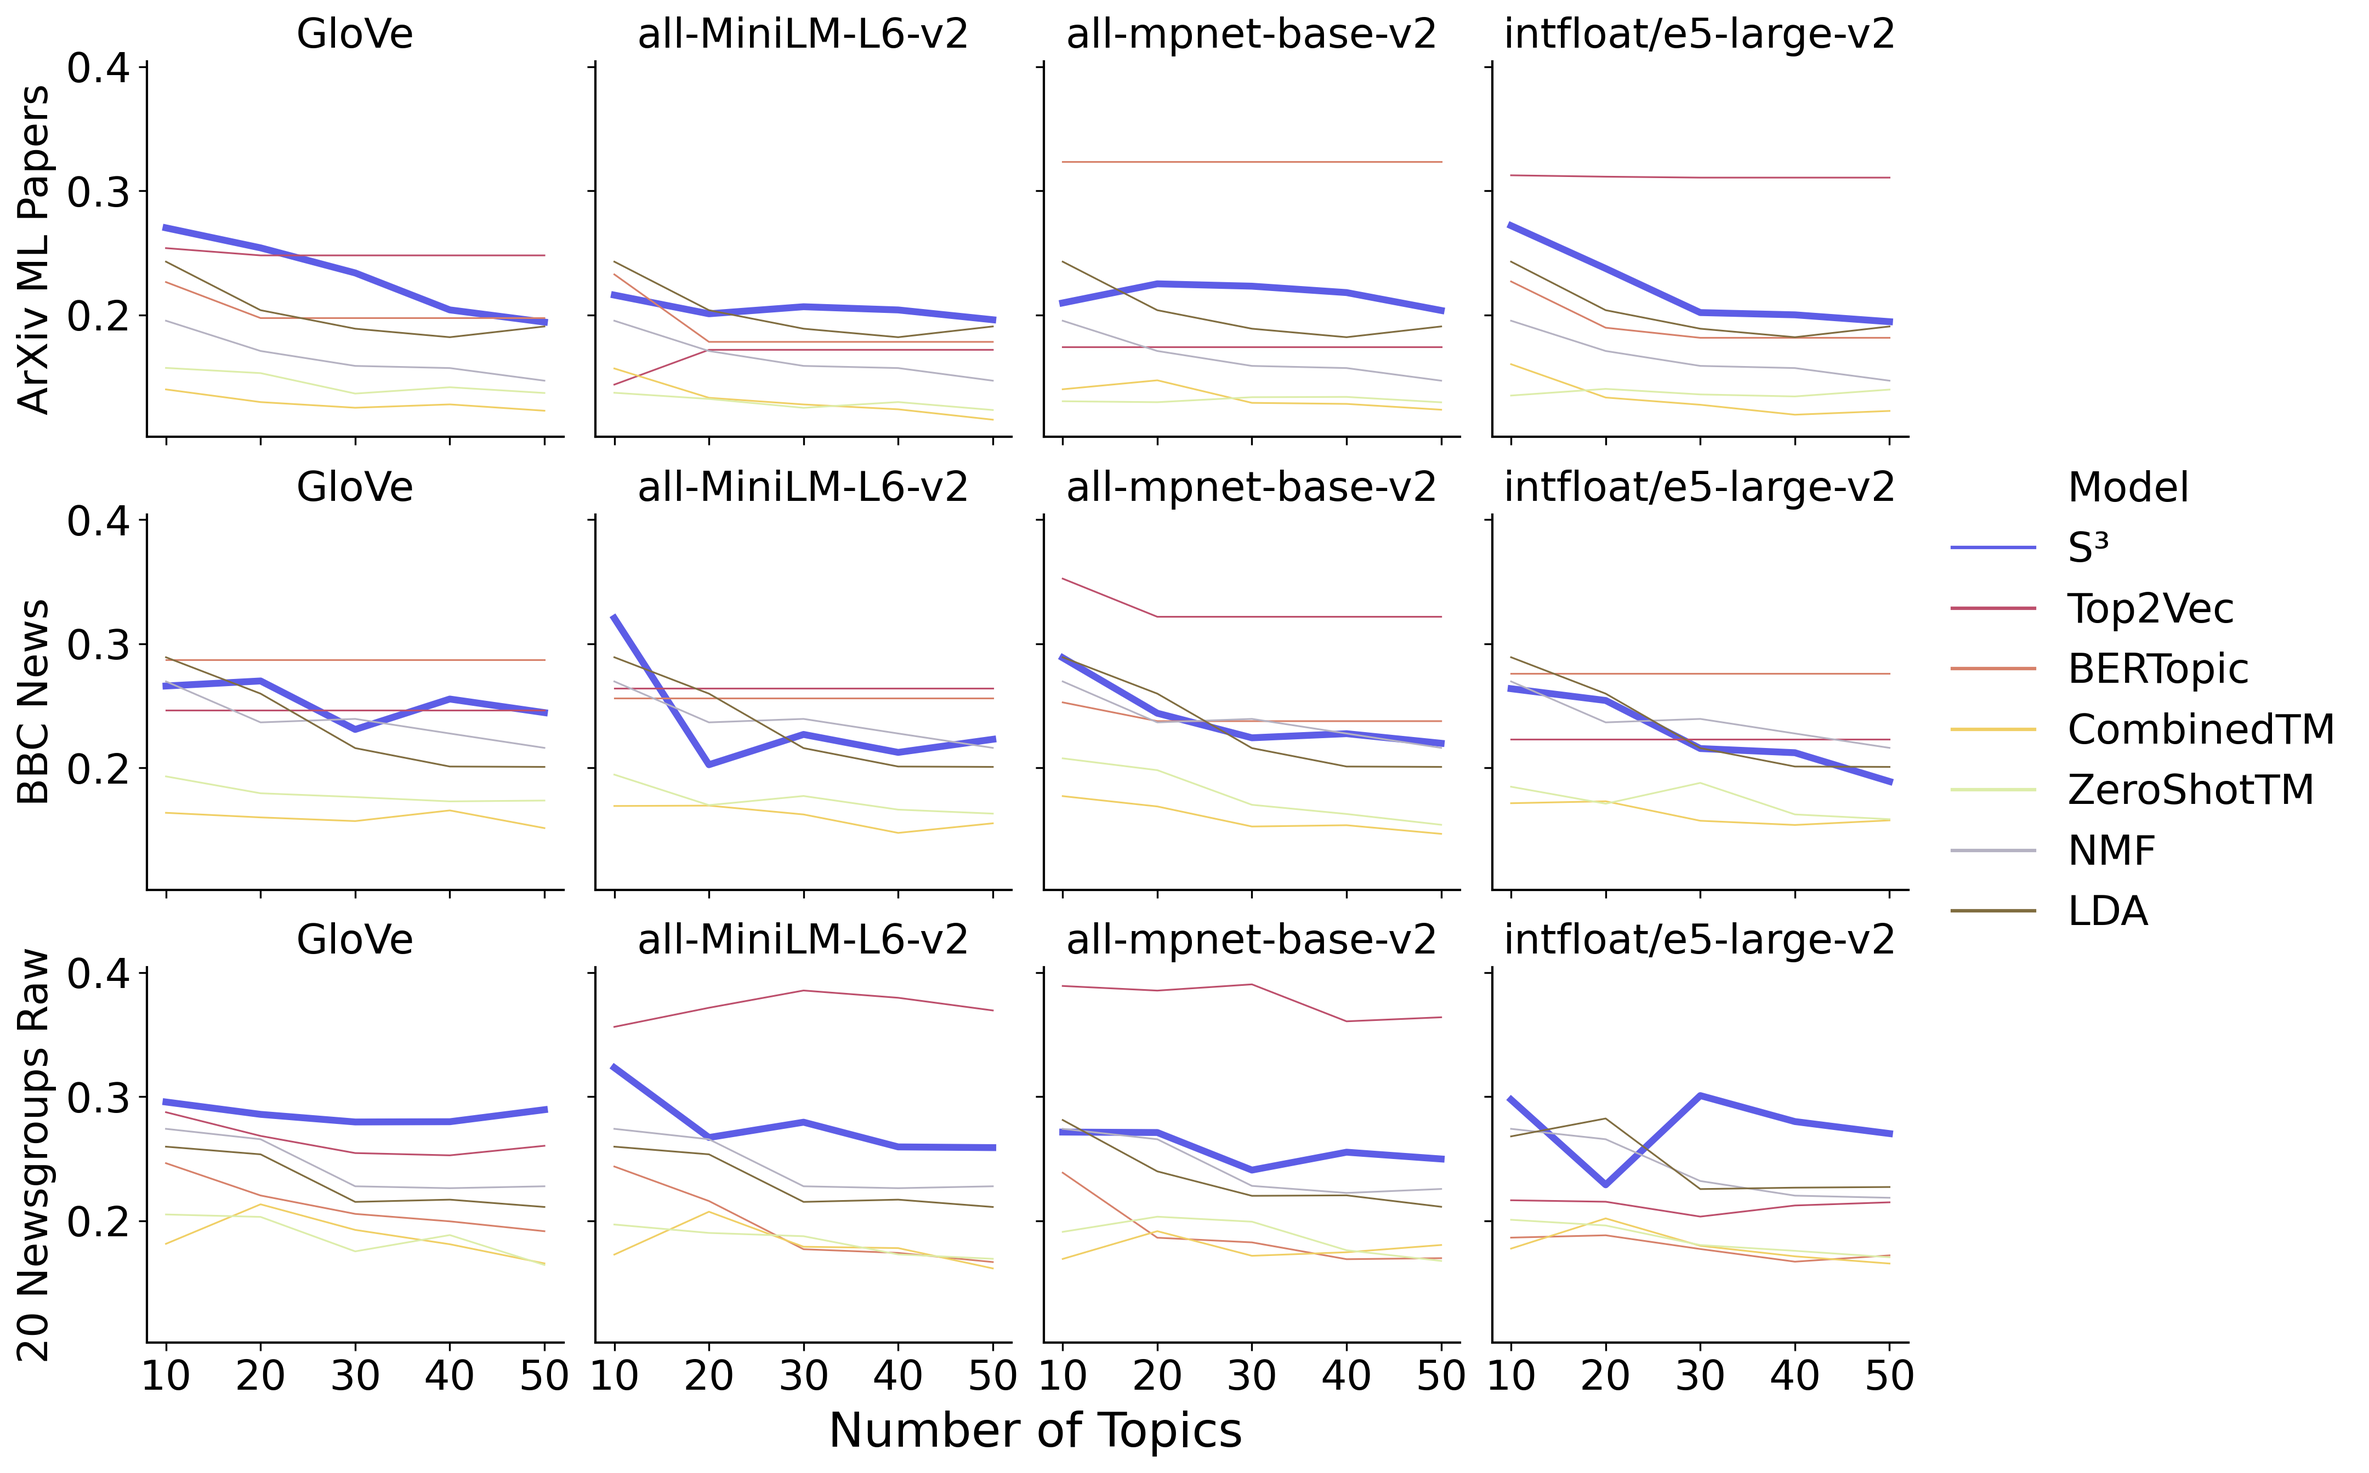
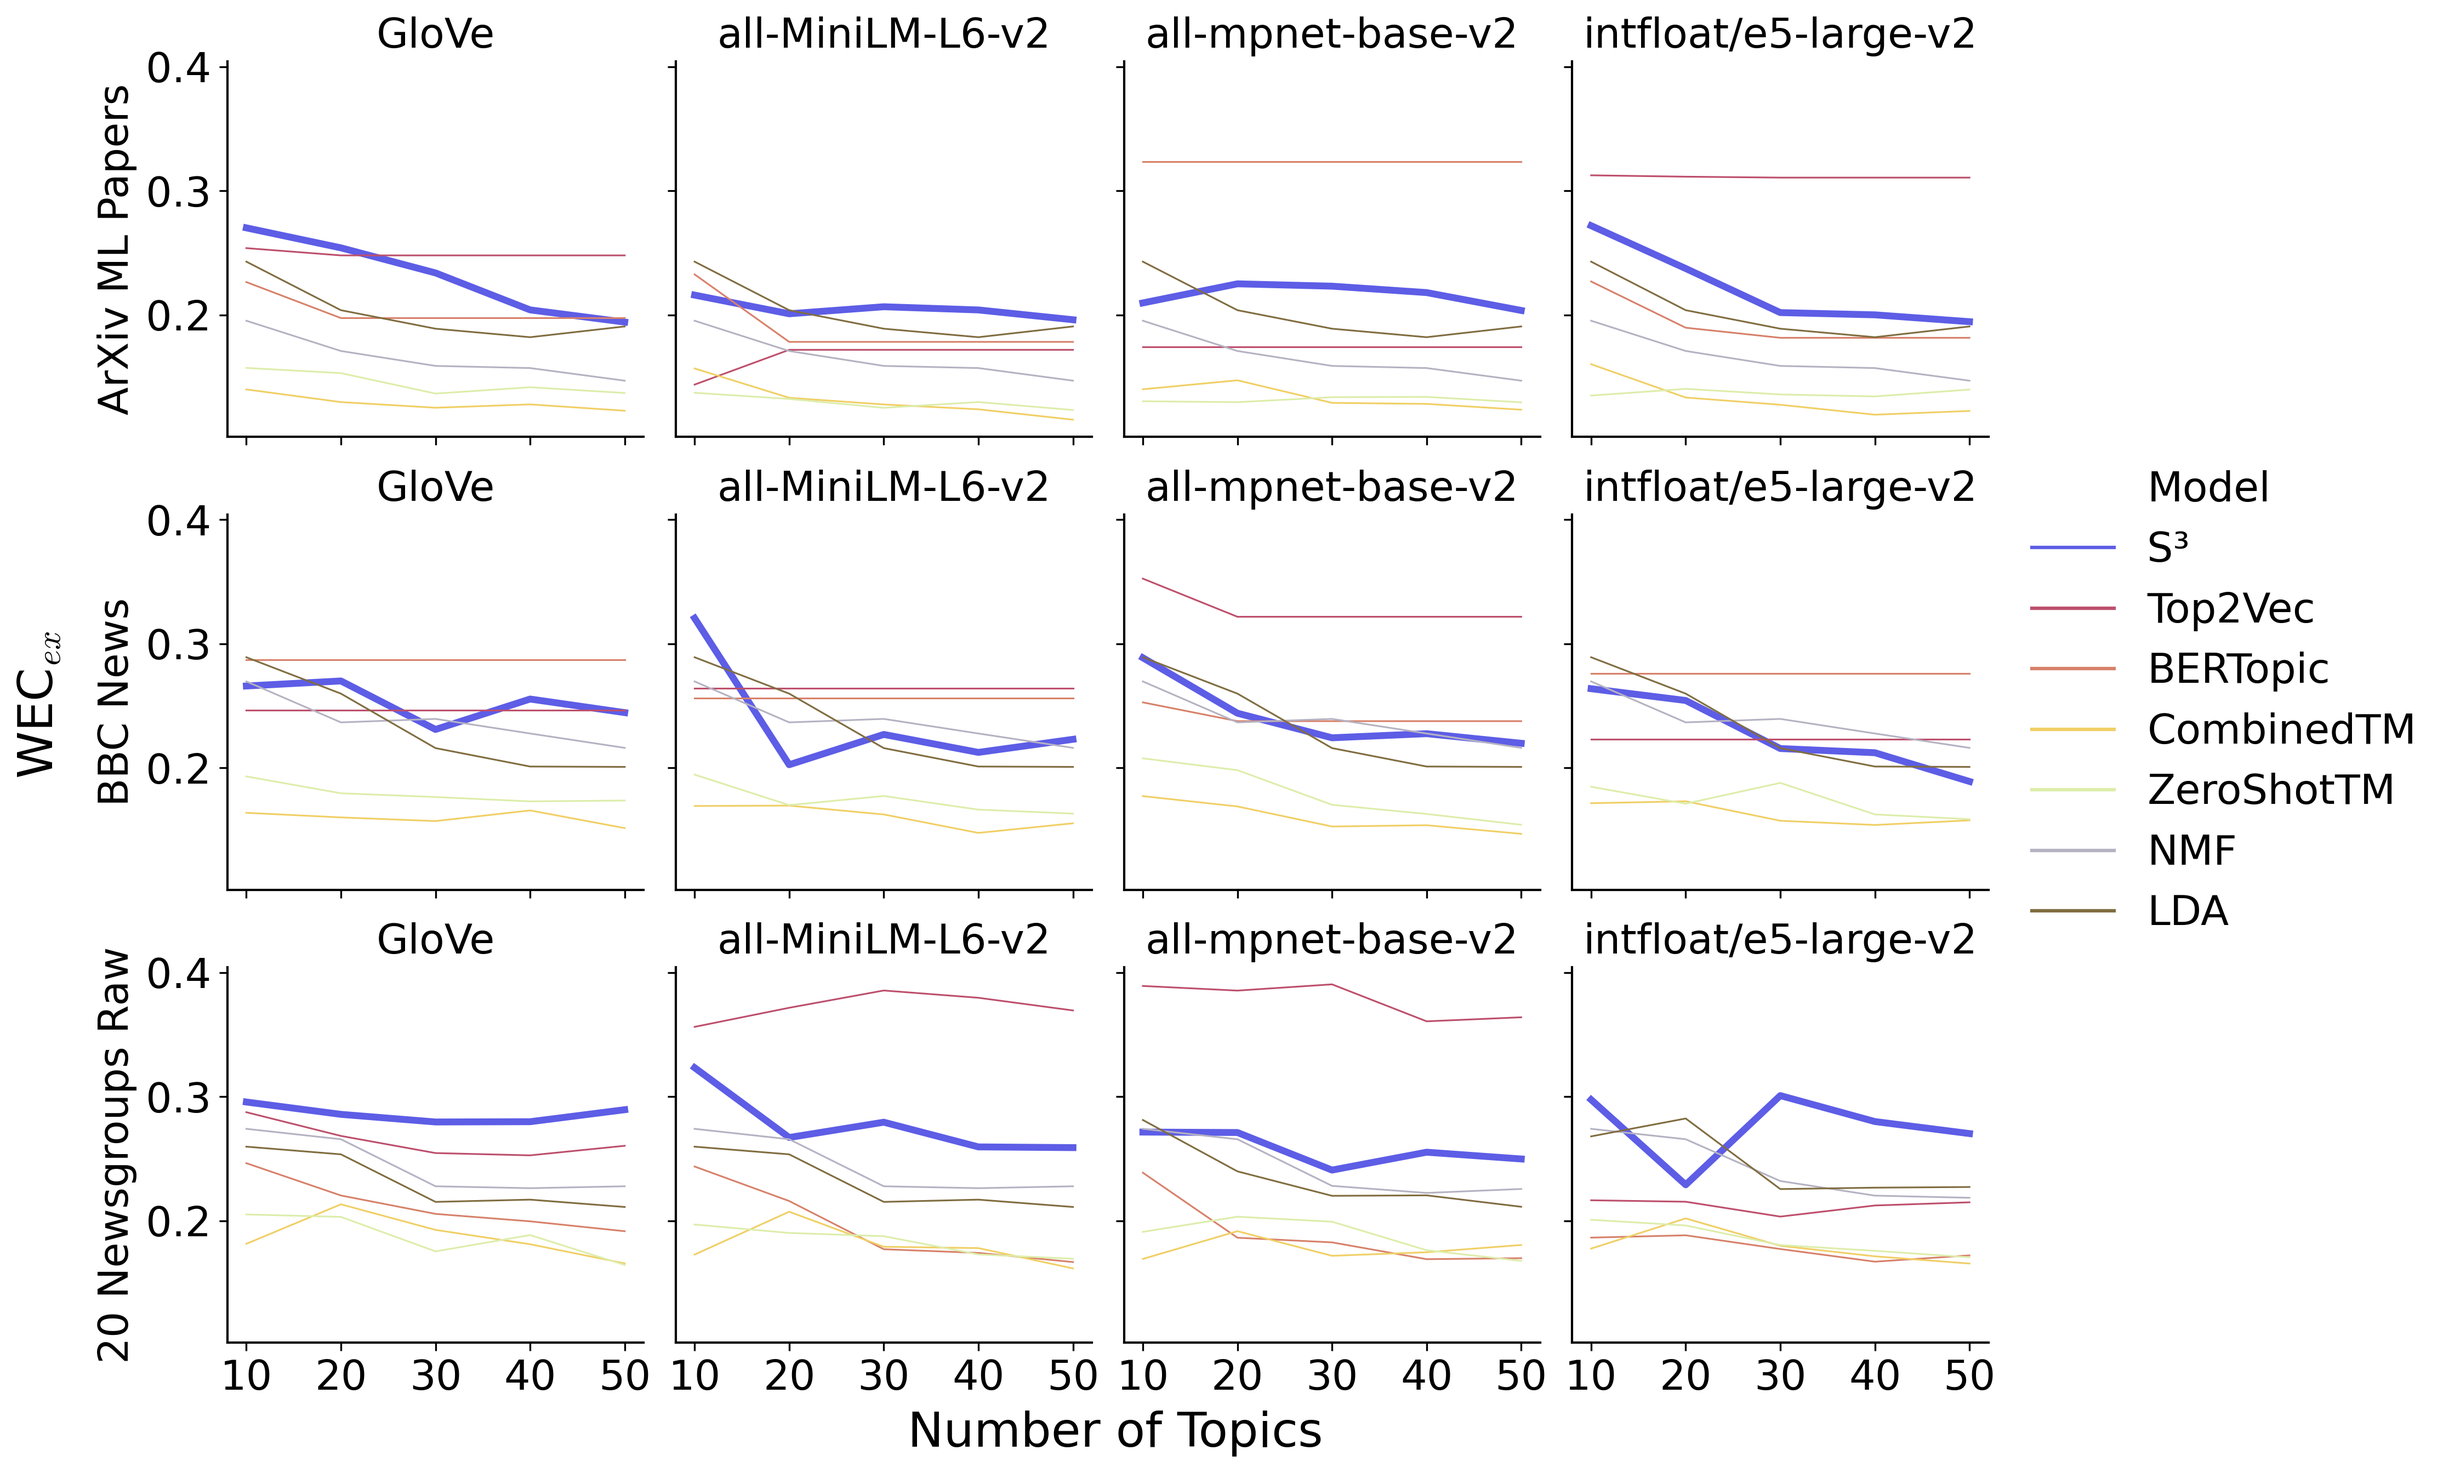
add supylabel

diff --git a/topic_benchmark/figures_plt.py b/topic_benchmark/figures_plt.py
@@ -48,6 +48,13 @@ encoder2colors = {
 }
 
 
+metric_labels = {
+        "Diversity": "Diversity",
+        "IWEC": "WEC$_{in}$",
+        "Word Embedding Coherence": "WEC$_{ex}$",
+}
+
+
 def set_plt_params(SCALE):
     plt.rcParams.update(
         {
@@ -437,7 +444,7 @@ def plot_disaggregated(data, metric):
         hue='Model',
         col='Encoder',
         size='is_target',
-        kind='line', 
+        kind='line',
         palette=models2colors, 
         hue_order=CATEGORY_ORDERS['Model'],
         aspect=1, height=3,
@@ -455,6 +462,7 @@ def plot_disaggregated(data, metric):
                    frameon=False)
     
     fig.fig.supxlabel("Number of Topics", x=.45)
+    fig.fig.supylabel(metric_labels[metric], x=-0.01, y=0.518)
     for i in range(4):
         fig.axes[-1,i].set_xlabel('')
 
